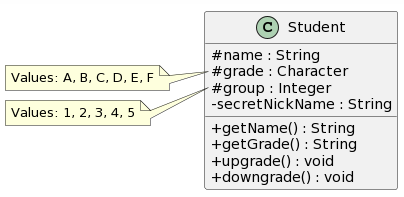
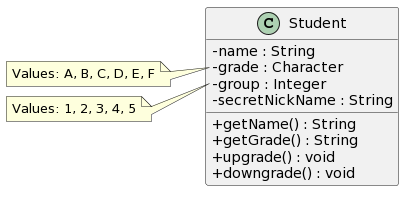
Adds solution for Activity 2.1

Changed region(s): [[0.0, 0.0305, 1.0, 0.9746]]

diff --git a/src/test/java/com/techreturners/StudentTests.java b/src/test/java/com/techreturners/StudentTests.java
@@ -1,0 +1,72 @@
+package com.techreturners;
+
+import org.junit.jupiter.params.ParameterizedTest;
+import org.junit.jupiter.params.provider.Arguments;
+import org.junit.jupiter.params.provider.CsvSource;
+import org.junit.jupiter.params.provider.MethodSource;
+
+import java.security.InvalidParameterException;
+import java.util.stream.Stream;
+
+import static org.junit.jupiter.api.Assertions.*;
+import static org.junit.jupiter.params.provider.Arguments.*;
+
+public class StudentTests {
+    @ParameterizedTest
+    @CsvSource(delimiterString = ",", textBlock = """
+            Peter, H , 1
+            John,  C , 7            
+                        """)
+    void checkInvalidStudentCreation(String name, Character grade, Integer group) {
+        assertThrows(InvalidParameterException.class, () -> new Student(name, grade, group));
+    }
+
+    @ParameterizedTest
+    @CsvSource({"James,C,2"})
+    void checkValidStudentCreation(String name, Character grade, Integer group) {
+        assertDoesNotThrow(() -> new Student(name, grade, group));
+    }
+
+    @ParameterizedTest
+    @MethodSource("studentsProvider")
+    void checkGetStudentName(String name, Character grade, Integer group) {
+        Student student = new Student(name, grade, group);
+
+        assertEquals(name, student.getName());
+    }
+
+    @ParameterizedTest
+    @MethodSource("studentsProvider")
+    void checkGetStudentGrade(String name, Character grade, Integer group) {
+        Student student = new Student(name, grade, group);
+
+        assertEquals(grade, student.getGrade());
+    }
+
+    @ParameterizedTest
+    @CsvSource({"James,C,2,B"})
+    void checkStudentUpgrade(String name, Character grade, Integer group, Character expectedGrade) {
+        Student student = new Student(name, grade, group);
+
+        student.upgrade();
+
+        assertEquals(expectedGrade, student.getGrade());
+    }
+
+    @ParameterizedTest
+    @CsvSource({"Bill,C,2,D"})
+    void checkStudentDowngrade(String name, Character grade, Integer group, Character expectedGrade) {
+        Student student = new Student(name, grade, group);
+
+        student.downgrade();
+
+        assertEquals(expectedGrade, student.getGrade());
+    }
+
+    static Stream<Arguments> studentsProvider() {
+        return Stream.of(
+                arguments("Kim", "A", 2),
+                arguments("Pat", "B", 4)
+        );
+    }
+}

diff --git a/src/main/java/com/techreturners/Student.java b/src/main/java/com/techreturners/Student.java
@@ -1,0 +1,46 @@
+package com.techreturners;
+
+import java.security.InvalidParameterException;
+import java.util.Arrays;
+import java.util.List;
+
+public class Student {
+    private String name;
+    private Character grade;
+    private Integer group;
+    private final String stringSecretName = "MySecretNickName";
+    private final List<Character> grades = Arrays.asList('A', 'B', 'C', 'D', 'E', 'F');
+    private final List<Integer> groups = Arrays.asList(1, 2, 3, 4, 5);
+
+    public Student(String name, Character grade, Integer group) {
+        this.name = name;
+        this.grade = grade;
+        this.group = group;
+
+        if (!grades.contains(grade)) {
+            throw new InvalidParameterException("Grade " + grade + "is not valid");
+        }
+
+        if (!groups.contains(group)) {
+            throw new InvalidParameterException("Group " + group + "is not valid");
+        }
+    }
+
+    public String getName() {
+        return name;
+    }
+
+    public Character getGrade() {
+        return grade;
+    }
+
+    public void downgrade() {
+        if (grades.indexOf(grade) < grades.size() - 1)
+            grade = grades.get(grades.indexOf(grade) + 1);
+    }
+
+    public void upgrade() {
+        if (grades.indexOf(grade) > 0)
+            grade = grades.get(grades.indexOf(grade) - 1);
+    }
+}

diff --git a/src/main/java/com/techreturners/Main.java b/src/main/java/com/techreturners/Main.java
@@ -1,0 +1,18 @@
+package com.techreturners;
+
+public class Main {
+
+    public static void main(String[] args) {
+        Student student = new Student("Peter", 'C', 2);
+
+        System.out.println("Name: " + student.getName());
+        System.out.println("Grade: " + student.getGrade());
+        System.out.println("Upgrading student 2 grades...");
+        student.upgrade();
+        student.upgrade();
+        System.out.println("Upgraded grade: " + student.getGrade());
+        System.out.println("Downgrading student 1 grade...");
+        student.downgrade();
+        System.out.println("Downgraded grade: " + student.getGrade());
+    }
+}

diff --git a/README.md b/README.md
@@ -26,7 +26,45 @@ You can find the business acceptance criteria below:
 
 **Activity 1.1** Using your understanding of access modifiers, getters and setters, draw a well-encapsulated class diagram to satisfy the business  acceptance criteria.
 
-**Solution:**
+### Solution:
 
 ![Student Class Diagram](docs/StudentClassDiagram.PNG)
 
+## Exercise 2: Translate the Class Diagram into Code
+
+**Activity 2.1** Using your understanding of access modifiers, getters and setters, translate your class diagram from Exercise 1 into working Java  code.
+
+### Solution:
+
+Click [here](src/main/java/com/techreturners/Student.java) to see the Student class.
+
+#### How to run the app
+1) cd to the project root folder in the command line
+2) ``mvn compile``
+3) ``mvn exec:java -Dexec.mainClass=com.techreturners.Main``
+
+#### Main Output:
+```
+Name: Peter
+Grade: C
+Upgrading student 2 grades...
+Upgraded grade: A
+Downgrading student 1 grade...
+Downgraded grade: B
+```
+
+#### How to run the tests
+1) cd to the project root folder in the command line
+2) ``mvn test``
+
+#### Tests results:
+```
+Tests run: 9, Failures: 0, Errors: 0, Skipped: 0, Time elapsed: 0.127 s - in com.techreturners.StudentTests
+```
+---
+## Technology
+This project was built using:
+- Java version 17.0.2
+- JUnit 5.8.2 for unit testing
+- Apache Maven 3.8.5 as project manager
+- Community Edition for the IntelliJ 2021.3.2 development environment.
